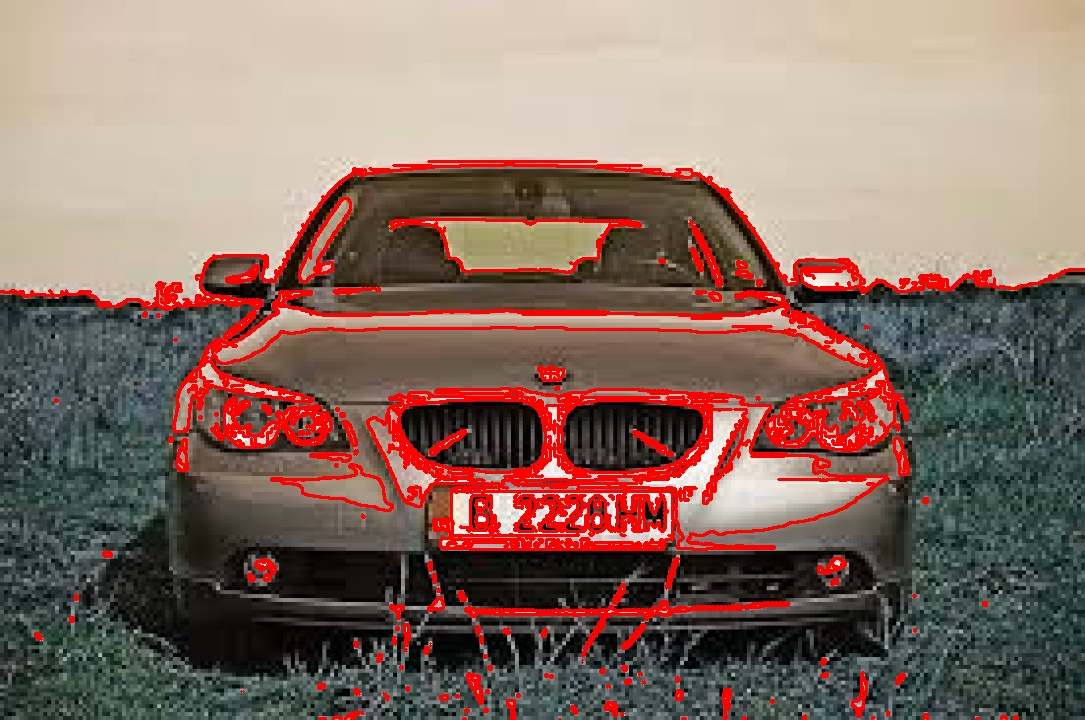
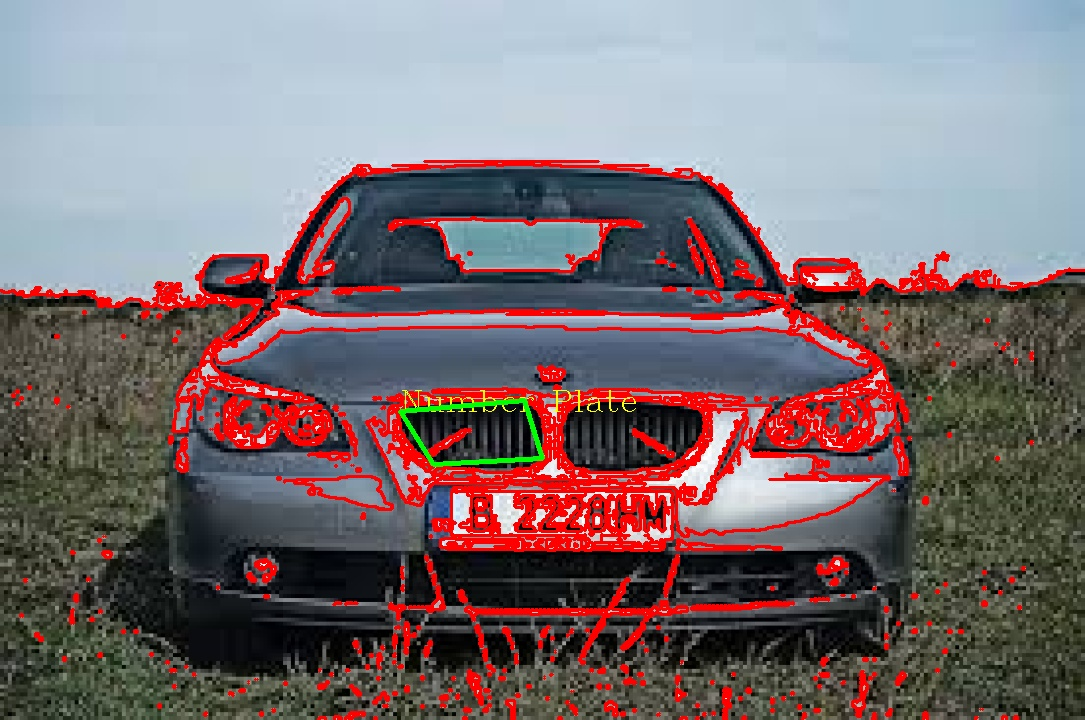
Update state of the assignment

diff --git a/Assignment 1/preprocessing.py b/Assignment 1/preprocessing.py
@@ -42,21 +42,22 @@ def get_contours(image, threshold):
     contours, _= cv.findContours(threshold.copy(), cv.RETR_TREE, cv.CHAIN_APPROX_SIMPLE)
     updated_contours = sorted(contours, key=cv.contourArea, reverse=True)[:10]
 
-    cv.drawContours(image, contours, -1, (0, 0, 255), 2)
+    cv.drawContours(image, contours, -1, (255, 0, 0), 2)
     for cnt in updated_contours:
         perimeter = cv.arcLength(cnt, True)
         approx = cv.approxPolyDP(cnt, 0.04 * perimeter, True)
-        if len(approx) < 0:
-            x = approx.ravel()[0]
-            y = approx.ravel()[1]
+        x = approx.ravel()[0]
+        y = approx.ravel()[1]
+        if len(approx) == 4:
             cv.putText(image, "Number Plate", (x, y), cv.FONT_HERSHEY_COMPLEX, 1, (255, 255, 0))
             cv.drawContours(image, [approx], -1, (0,255,0), 3)
             print(f"Added a candidate! \U0001F919 ")
             break
-        elif len(approx) < 4 and len(approx) > 0:
-            convexHull = cv.convexHull(approx[0])
-            perimeter_sec = cv.arcLength(convexHull, True)
-            approx_sec = cv.approxPolyDP(convexHull, 0.04*perimeter_sec, True)
+        elif len(approx) > 4 :
+            convexHull = cv.convexHull(approx)
+            perimeter_sec = cv.arcLength(convexHull, False)
+            approx_sec = cv.approxPolyDP(convexHull, 0.0*perimeter_sec, True)
+            cv.putText(image, "Plate-ish", (x, y), cv.FONT_HERSHEY_COMPLEX, 1, (255, 255, 0))
             cv.drawContours(image, [approx_sec], -1, (0, 255, 0), 2)
             print(f"Added a candidate v.2.0! \U0001F918 ")
             break
@@ -65,67 +66,50 @@ def get_contours(image, threshold):
 def get_edges(image, opencv=False):
     if not opencv:
         return feature.canny(image, sigma=1.5)
-    return cv.Canny(image, 100, 200, L2gradient=0)
-
-
-def flood_filler(im, seed_point=(0,0)):
-    flood_fill_flags = (
-        4 | cv.FLOODFILL_FIXED_RANGE | cv.FLOODFILL_MASK_ONLY | 255 << 8
-    )
-    image = im.copy()
-    height, width = image.shape[:2]
-    diff = (32, 32, 32)
-    mask = np.zeros((height+2, width+2), np.uint8)
-    cv.floodFill(image, mask, seed_point, 0, diff, diff, flags=flood_fill_flags)
-    plt.imshow(image, cmap='gray')
-    plt.show()
+    return cv.Canny(image, 70, 200, L2gradient=False)
 
 def adjust_gamma(image, gamma=1.0):
-    # build a lookup table mapping the pixel values [0, 255] to
-    # their adjusted gamma values
-    invGamma = 1.0 / gamma
-    table = np.array([((i / 255.0) ** invGamma) * 255
+    # source: https://www.pyimagesearch.com/2015/10/05/opencv-gamma-correction/
+    invertedGamma = 1.0 / gamma
+    lookUpTable = np.array([((i / 255.0) ** invertedGamma) * 255
                       for i in np.arange(0, 256)]).astype("uint8")
-    # apply gamma correction using the lookup table
-    return cv.LUT(image, table)
+    return cv.LUT(image, lookUpTable)
 
 
-def preprocess_images(images):
+def preprocess_images(image):
     out = []
     i = 0
-    for image in images:
-        orig_img = check_size(image.copy())
-        img = cv.cvtColor(orig_img.copy(), cv.COLOR_RGB2GRAY)
-        adjusted = adjust_gamma(img, gamma=1.0)
-        #equ = cv.equalizeHist(adjusted)
-        blurred = cv.GaussianBlur(adjusted, (7, 7), 2)
-        #blurred = cv.bilateralFilter(img, 11, 17, 17)
-        # threshold = cv.adaptiveThreshold(blurred,
-        #                                  maxValue=255,
-        #                                  adaptiveMethod=cv.ADAPTIVE_THRESH_GAUSSIAN_C,
-        #                                  thresholdType=cv.THRESH_BINARY,
-        #                                  blockSize=11,
-        #                                  C=4)
-        _, threshold = cv.threshold(blurred, MIN_THRESH, MAX_THRESH, cv.THRESH_OTSU)
-        mask = cv.bitwise_and(img, threshold)
-        #kernel = cv.getStructuringElement(cv.MORPH_CROSS, (2,2))
-        #erode = cv.erode(threshold, kernel, iterations=1)
-        #closing = cv.morphologyEx(erode, cv.MORPH_CLOSE, kernel, iterations=1)
-        #closing = cv.morphologyEx(threshold, cv.MORPH_CLOSE, kernel, iterations=1)
-        #dilate = cv.dilate(closing, kernel, iterations=1)
-        #gradient = cv.morphologyEx(closing, cv.MORPH_GRADIENT, kernel, iterations=1)
-        #inverted_edges = cv.bitwise_not(gradient)
-        # res = np.hstack((threshold, closing))
-        # plt.imshow(res, cmap='gray')
-        # plt.show()
-        edges = get_edges(mask, opencv=True)
-        cv_image = img_as_ubyte(edges)
-        res = np.hstack((cv_image, mask))
-        plt.imshow(res, cmap='gray')
-        #plt.show()
-        get_contours(orig_img, cv_image)
 
-        out.append(orig_img)
-        i += 1
+    orig_img = check_size(image.copy())
+    img = cv.cvtColor(orig_img.copy(), cv.COLOR_RGB2GRAY)
+    adjusted = adjust_gamma(img, gamma=0.9)
+    #equ = cv.equalizeHist(adjusted)
+    blurred = cv.GaussianBlur(adjusted, (5, 5), 0)
+    #blurred = cv.bilateralFilter(img, 11, 17, 17)
+    # threshold = cv.adaptiveThreshold(blurred,
+    #                                  maxValue=255,
+    #                                  adaptiveMethod=cv.ADAPTIVE_THRESH_GAUSSIAN_C,
+    #                                  thresholdType=cv.THRESH_BINARY,
+    #                                  blockSize=11,
+    #                                  C=4)
+    _, threshold = cv.threshold(blurred, MIN_THRESH, MAX_THRESH, cv.THRESH_OTSU)
+    mask = cv.bitwise_and(img, threshold)
+    #kernel = cv.getStructuringElement(cv.MORPH_CROSS, (2,2))
+    #erode = cv.erode(threshold, kernel, iterations=1)
+    #closing = cv.morphologyEx(erode, cv.MORPH_CLOSE, kernel, iterations=1)
+    #closing = cv.morphologyEx(threshold, cv.MORPH_CLOSE, kernel, iterations=1)
+    #dilate = cv.dilate(closing, kernel, iterations=1)
+    #gradient = cv.morphologyEx(closing, cv.MORPH_GRADIENT, kernel, iterations=1)
+    #inverted_edges = cv.bitwise_not(gradient)
+
+    edges = get_edges(mask, opencv=True)
+    cv_image = img_as_ubyte(edges)
+    # res = np.hstack((threshold, mask))
+    # plt.imshow(res, cmap='gray')
+    # plt.show()
+    get_contours(orig_img, cv_image)
+    return orig_img
+    out.append(orig_img)
+    i += 1
 
     return out

diff --git a/Assignment 1/__init__.py b/Assignment 1/__init__.py
@@ -1,26 +1,41 @@
+# -*- coding: UTF-8 -*-
 import os
 import cv2 as cv
+import numpy as np
 import preprocessing
+import matplotlib.pyplot as plt
 
 FILEPATH = os.path.abspath("images")
 OUTPUT = os.path.abspath(("output"))
 
 def save_images(images):
     for i in range(len(images)):
+        img = images[i]
         try:
-            cv.imwrite(f"{OUTPUT}/out_car_{i}.jpg", images[i])
+            cv.imwrite(f"{OUTPUT}/out_car_{i}.jpg", cv.cvtColor(img, cv.COLOR_RGB2BGR))
             print(f"Saving number plate {i+1} \U0001F4BE")
         except IOError :
             return f"Error while saving file number: {i}"
     print(f"Succesfully saved {len(images)} images to {OUTPUT}")
 
 
+def save_image(image, i):
+    try:
+        cv.imwrite(f"{OUTPUT}/out_car_{i}.jpg", cv.cvtColor(image, cv.COLOR_RGB2BGR))
+        print(f"Saving number plate {i+1} \U0001F4BE")
+    except IOError :
+        return f"Error while saving file number: {i}"
+
+
+
 if __name__ == '__main__':
     images = preprocessing.load_images(FILEPATH)
-    # plt.imshow(images)
-    # plt.show()
-    img = images[0]
-    #plt.imshow(img, cmap='gray') # https://matplotlib.org/tutorials/introductory/images.html
-    #plt.show()
-    prepped = preprocessing.preprocess_images(images)
-    save_images(prepped)
+
+    out_images = []
+    for i, image in enumerate(images):
+        output = preprocessing.preprocess_images(image)
+        res = np.hstack((preprocessing.check_size(image), output))
+        plt.imshow(res) # https://matplotlib.org/tutorials/introductory/images.html
+        plt.show()
+        out_images.append(output)
+    save_images(out_images)
